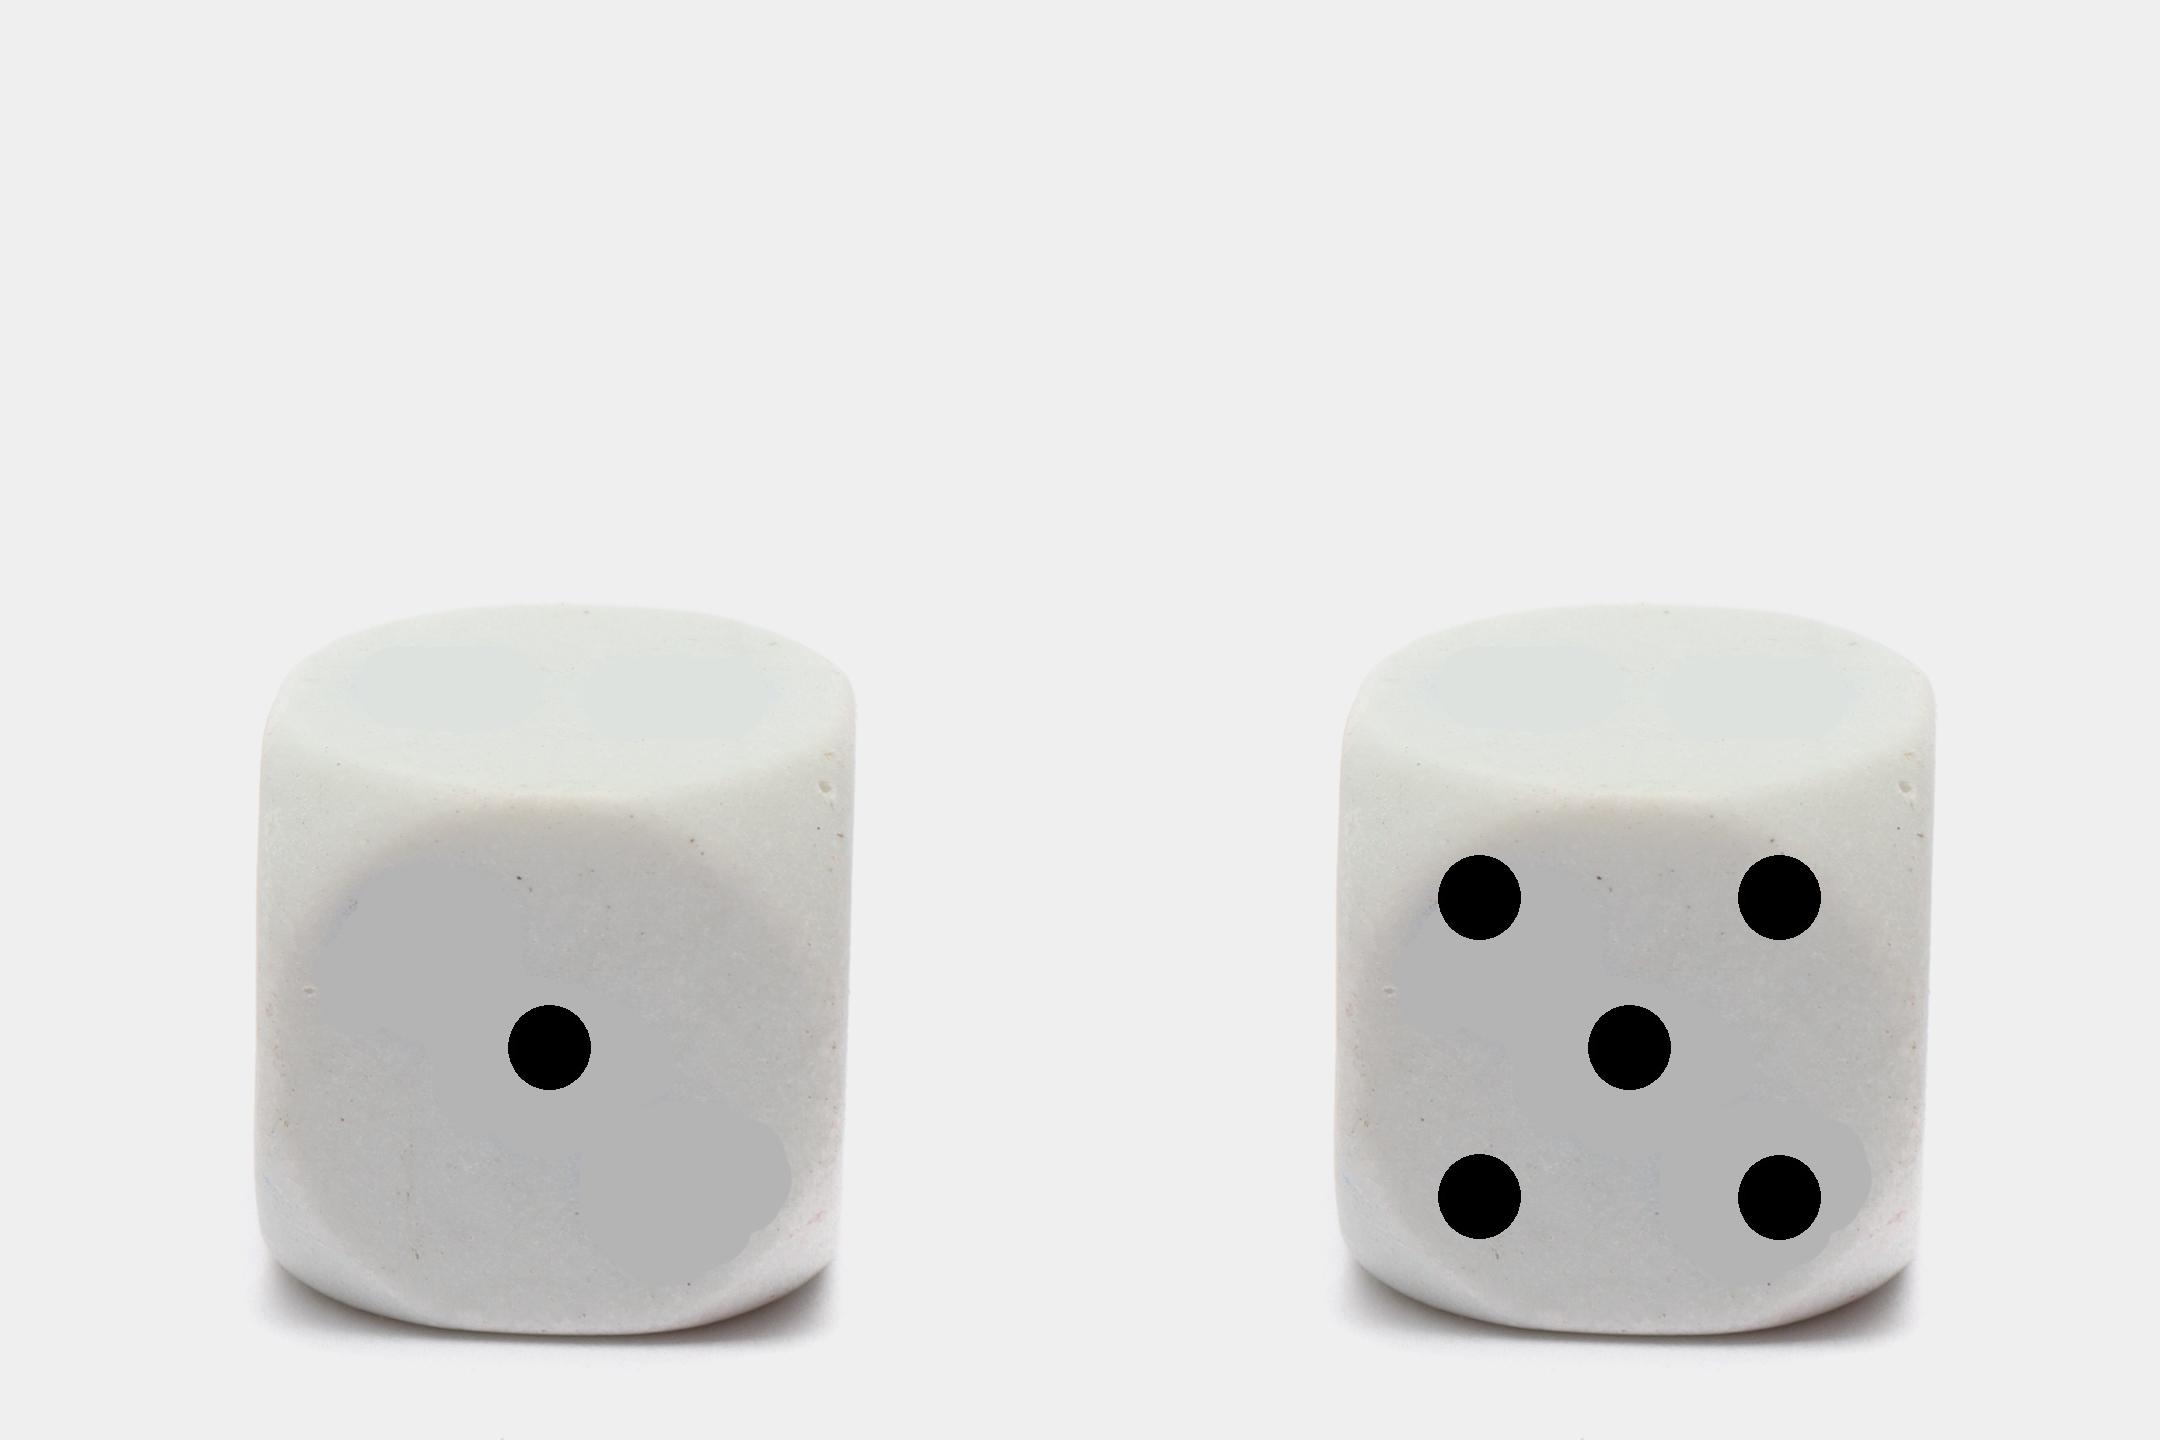
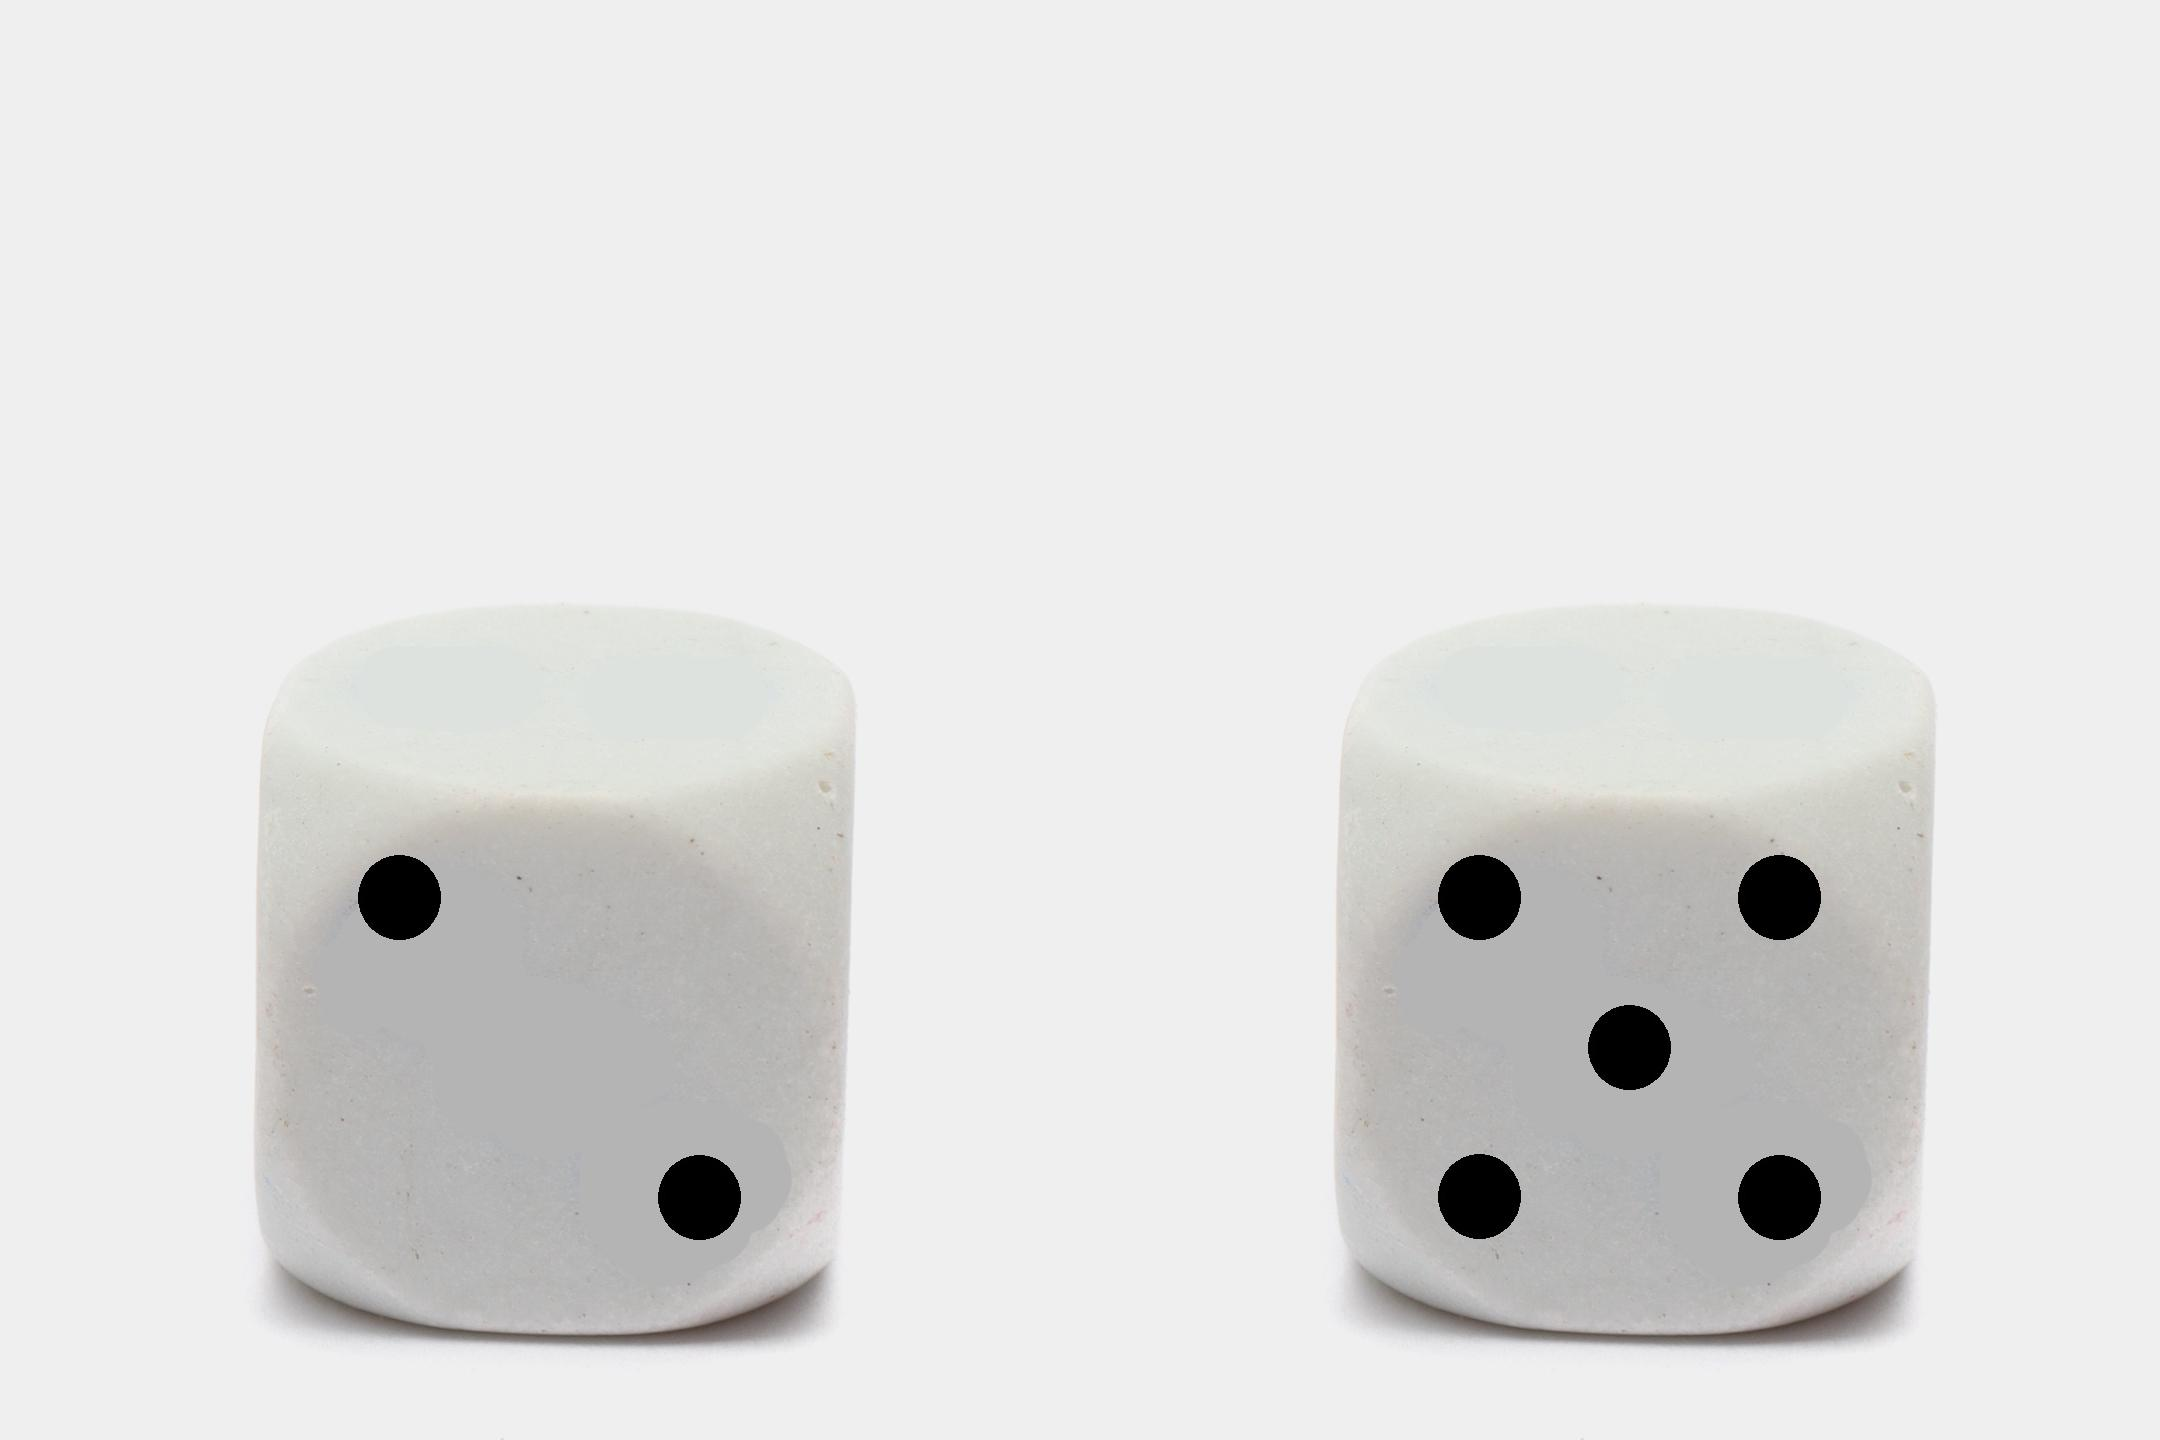
FINAL VERSION

Changed region(s): [[0.2171, 0.6875, 0.2792, 0.7812], [0.2792, 0.7812, 0.3412, 0.875], [0.1551, 0.5938, 0.2171, 0.6562]]

diff --git a/main.py b/main.py
@@ -1,6 +1,5 @@
 from PIL import Image
 import random
-import image_class as IMAGE
 
 
 img = Image.open("DICE_EMPTY.jpg")
@@ -11,101 +10,61 @@ point = Image.open("DICE_POINT_edited.png")
 point.load()
 
 
-def gen_dice(num, count):
-    if count == 1:
-        if num == 1:
-            img.paste(point, (500, 1000), mask=point)
-            IMAGE.dice1 = img
-            IMAGE.dice1.save("dice1.jpg")
-        if num == 2:
-            img.paste(point, (650, 1150), mask=point)
-            img.paste(point, (350, 850), mask=point)
-            IMAGE.dice1 = img
-            IMAGE.dice1.save("dice1.jpg")
-        if num == 3:
-            img.paste(point, (650, 1150), mask=point)
-            img.paste(point, (350, 850), mask=point)
-            img.paste(point, (500, 1000), mask=point)
-            IMAGE.dice1 = img
-            IMAGE.dice1.save("dice1.jpg")
-        if num == 4:
-            img.paste(point, (650, 1150), mask=point)
-            img.paste(point, (350, 850), mask=point)
-            img.paste(point, (350, 1149), mask=point)
-            img.paste(point, (650, 850), mask=point)
-            IMAGE.dice1 = img
-            IMAGE.dice1.save("dice1.jpg")
-        if num == 5:
-            img.paste(point, (650, 1150), mask=point)
-            img.paste(point, (350, 850), mask=point)
-            img.paste(point, (350, 1149), mask=point)
-            img.paste(point, (500, 1000), mask=point)
-            img.paste(point, (650, 850), mask=point)
-            IMAGE.dice1 = img
-            IMAGE.dice1.save("dice1.jpg")
-        if num == 6:
-            img.paste(point, (650, 1150), mask=point)
-            img.paste(point, (350, 850), mask=point)
-            img.paste(point, (350, 1000), mask=point)
-            img.paste(point, (650, 1000), mask=point)
-            img.paste(point, (350, 1149), mask=point)
-            img.paste(point, (650, 850), mask=point)
-            IMAGE.dice1 = img
-            IMAGE.dice1.save("dice1.jpg")
-    else:
-        if num == 1:
-            img2.paste(point, (500, 1000), mask=point)
-            IMAGE.dice2 = img2
-            IMAGE.dice2.save("dice2.jpg")
-        if num == 2:
-            img2.paste(point, (650, 1150), mask=point)
-            img2.paste(point, (350, 850), mask=point)
-            IMAGE.dice2 = img2
-            IMAGE.dice2.save("dice2.jpg")
-        if num == 3:
-            img2.paste(point, (650, 1150), mask=point)
-            img2.paste(point, (350, 850), mask=point)
-            img2.paste(point, (500, 1000), mask=point)
-            IMAGE.dice2 = img2
-            IMAGE.dice2.save("dice2.jpg")
-        if num == 4:
-            img2.paste(point, (650, 1150), mask=point)
-            img2.paste(point, (350, 850), mask=point)
-            img2.paste(point, (350, 1149), mask=point)
-            img2.paste(point, (650, 850), mask=point)
-            IMAGE.dice2 = img2
-            IMAGE.dice2.save("dice2.jpg")
-        if num == 5:
-            img2.paste(point, (650, 1150), mask=point)
-            img2.paste(point, (350, 850), mask=point)
-            img2.paste(point, (350, 1149), mask=point)
-            img2.paste(point, (500, 1000), mask=point)
-            img2.paste(point, (650, 850), mask=point)
-            IMAGE.dice2 = img2
-            IMAGE.dice2.save("dice2.jpg")
-        if num == 6:
-            img2.paste(point, (650, 1150), mask=point)
-            img2.paste(point, (350, 850), mask=point)
-            img2.paste(point, (350, 1000), mask=point)
-            img2.paste(point, (650, 1000), mask=point)
-            img2.paste(point, (350, 1149), mask=point)
-            img2.paste(point, (650, 850), mask=point)
-            IMAGE.dice2 = img2
-            IMAGE.dice2.save("dice2.jpg")
+def gen_dice(num, image_obj, savename):
+    if num == 1:
+        image_obj.paste(point, (500, 1000), mask=point)
+        image_obj.save(savename)
+        return image_obj
+    if num == 2:
+        image_obj.paste(point, (650, 1150), mask=point)
+        image_obj.paste(point, (350, 850), mask=point)
+        image_obj.save(savename)
+        return image_obj
+    if num == 3:
+        image_obj.paste(point, (650, 1150), mask=point)
+        image_obj.paste(point, (350, 850), mask=point)
+        image_obj.paste(point, (500, 1000), mask=point)
+        image_obj.save(savename)
+        return image_obj
+    if num == 4:
+        image_obj.paste(point, (650, 1150), mask=point)
+        image_obj.paste(point, (350, 850), mask=point)
+        image_obj.paste(point, (350, 1149), mask=point)
+        image_obj.paste(point, (650, 850), mask=point)
+        image_obj.save(savename)
+        return image_obj
+    if num == 5:
+        image_obj.paste(point, (650, 1150), mask=point)
+        image_obj.paste(point, (350, 850), mask=point)
+        image_obj.paste(point, (350, 1149), mask=point)
+        image_obj.paste(point, (500, 1000), mask=point)
+        image_obj.paste(point, (650, 850), mask=point)
+        image_obj.save(savename)
+        return image_obj
+    if num == 6:
+        image_obj.paste(point, (650, 1150), mask=point)
+        image_obj.paste(point, (350, 850), mask=point)
+        image_obj.paste(point, (350, 1000), mask=point)
+        image_obj.paste(point, (650, 1000), mask=point)
+        image_obj.paste(point, (350, 1149), mask=point)
+        image_obj.paste(point, (650, 850), mask=point)
+        image_obj.save(savename)
+        return image_obj
 
 
-n1 = int(random.uniform(1, 7))
-n2 = int(random.uniform(1, 7))
-gen_dice(n1, 1)
-gen_dice(n2, 2)
-print(n1, n2)
-result = Image.new('RGB', (2160, 1440))
-result.load()
-IMAGE.dice1.load()
-IMAGE.dice2.load()
-result.paste(IMAGE.dice1, (0, 0))
-result.paste(IMAGE.dice2, (1080, 0))
-result.save("dice_result.jpg")
-result.show()
-move_points = n1 + n2
-print("You got", move_points, "points!")
+if __name__ == "__main__":
+    n1 = int(random.uniform(1, 7))
+    n2 = int(random.uniform(1, 7))
+    dice1 = gen_dice(n1, img, "dice1.jpg")
+    dice2 = gen_dice(n2, img2, "dice2.jpg")
+    print(n1, n2)
+    result = Image.new('RGB', (2160, 1440))
+    result.load()
+    dice1.load()
+    dice2.load()
+    result.paste(dice1, (0, 0))
+    result.paste(dice2, (1080, 0))
+    result.save("dice_result.jpg")
+    result.show()
+    move_points = n1 + n2
+    print("You got", move_points, "points!")
